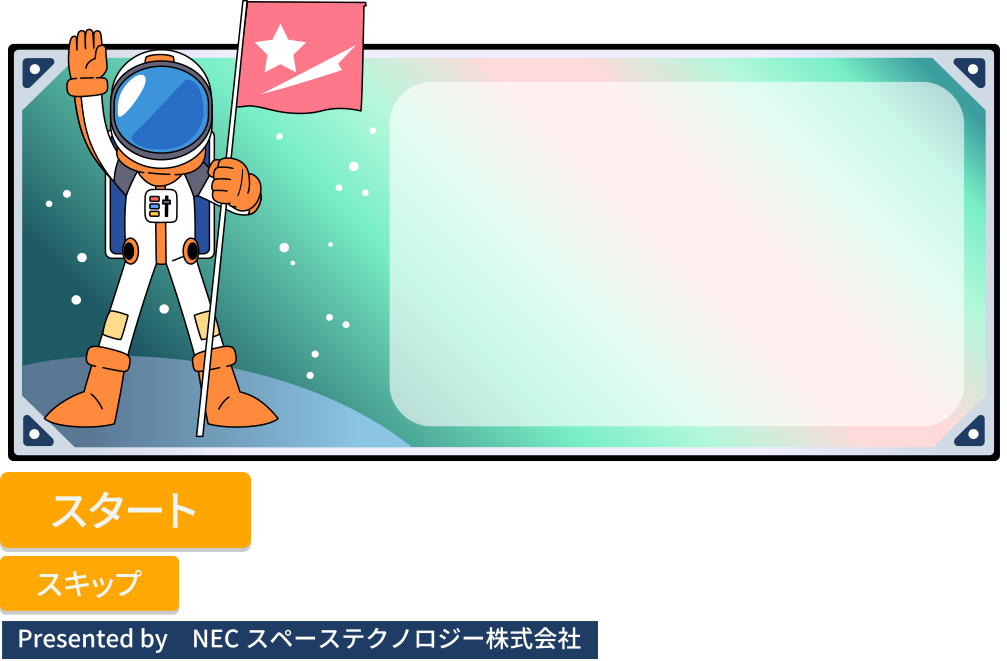
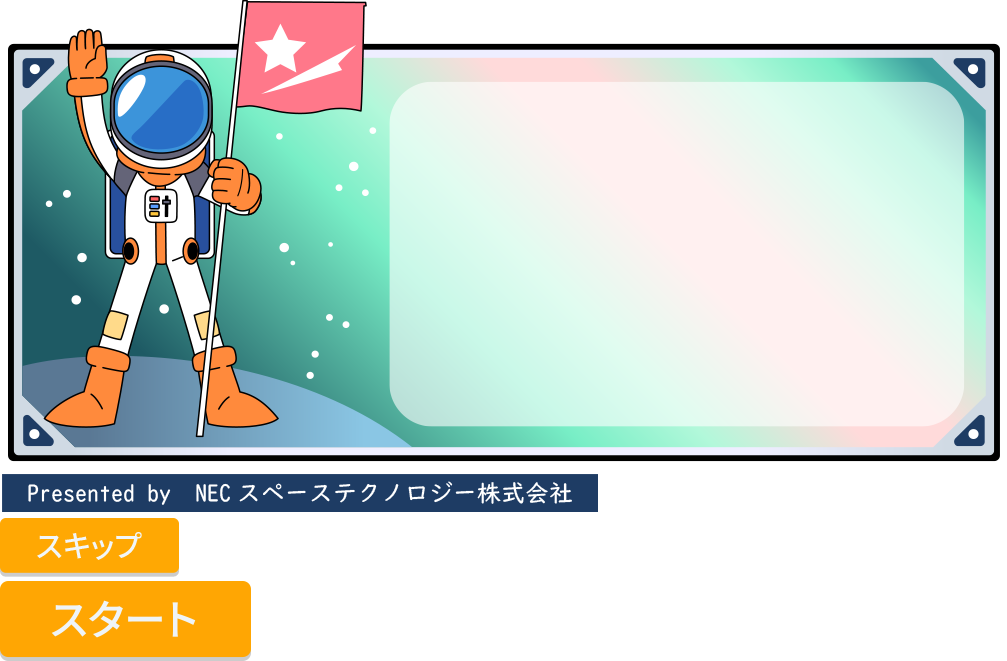
Update title assets

Changed region(s): [[0.0, 0.6959, 0.6157, 1.0]]

diff --git a/src/components/atoms/TitleBase/TitleBase.tsx b/src/components/atoms/TitleBase/TitleBase.tsx
@@ -22,6 +22,7 @@ const Base = styled.div`
   width: 1007px;
   height: 468px;
   background-image: url(${ ImageTitle });
+  /* lecture_title_base.png */
   background-position: 0 0;
   background-repeat: no-repeat;
   position: relative;
@@ -58,7 +59,8 @@ const StartBtn = styled.div`
   width: 252px;
   height: 80px;
   background-image: url(${ ImageTitle });
-  background-position:0 -472px;
+  /* lecture_title_start.png */
+  background-position: 0 -581px;
   background-repeat: no-repeat;
   align-self: center;
   cursor: pointer;
@@ -69,7 +71,8 @@ const SkipBtn = styled.div<{ isStartClicked: boolean }>(({ isStartClicked }) => 
   width: 180px;
   height: 59px;
   background-image: url(${ ImageTitle });
-  background-position: 0 -556px;
+  /* lecture_title_skip.png */
+  background-position: 0 -518px;
   cursor: pointer;
 `);
 

diff --git a/src/components/atoms/PresentedBy/PresentedBy.tsx b/src/components/atoms/PresentedBy/PresentedBy.tsx
@@ -10,7 +10,8 @@ const Main = styled.div`
   width: 600px;
   height: 42px;
   background-image: url(${ ImageTitle });
-  background-position:0 -619px;
+  /* lecture_title_offer.png */
+  background-position: 0 -472px;
 `;
 
 export const PresentedBy: FC<PresentedByProps> = ({
